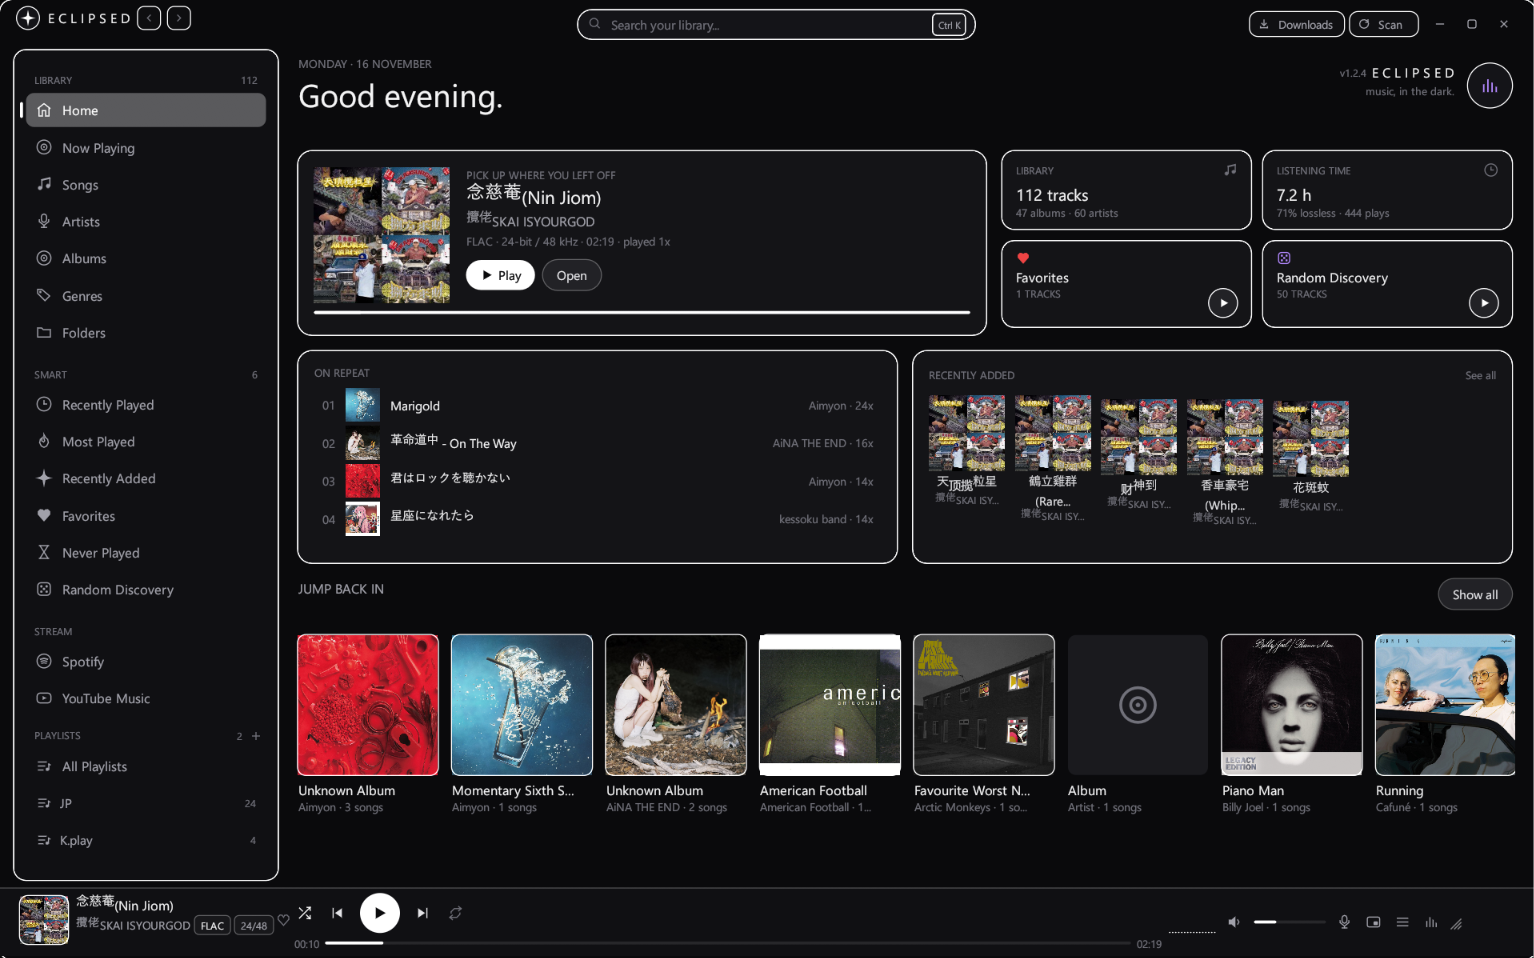
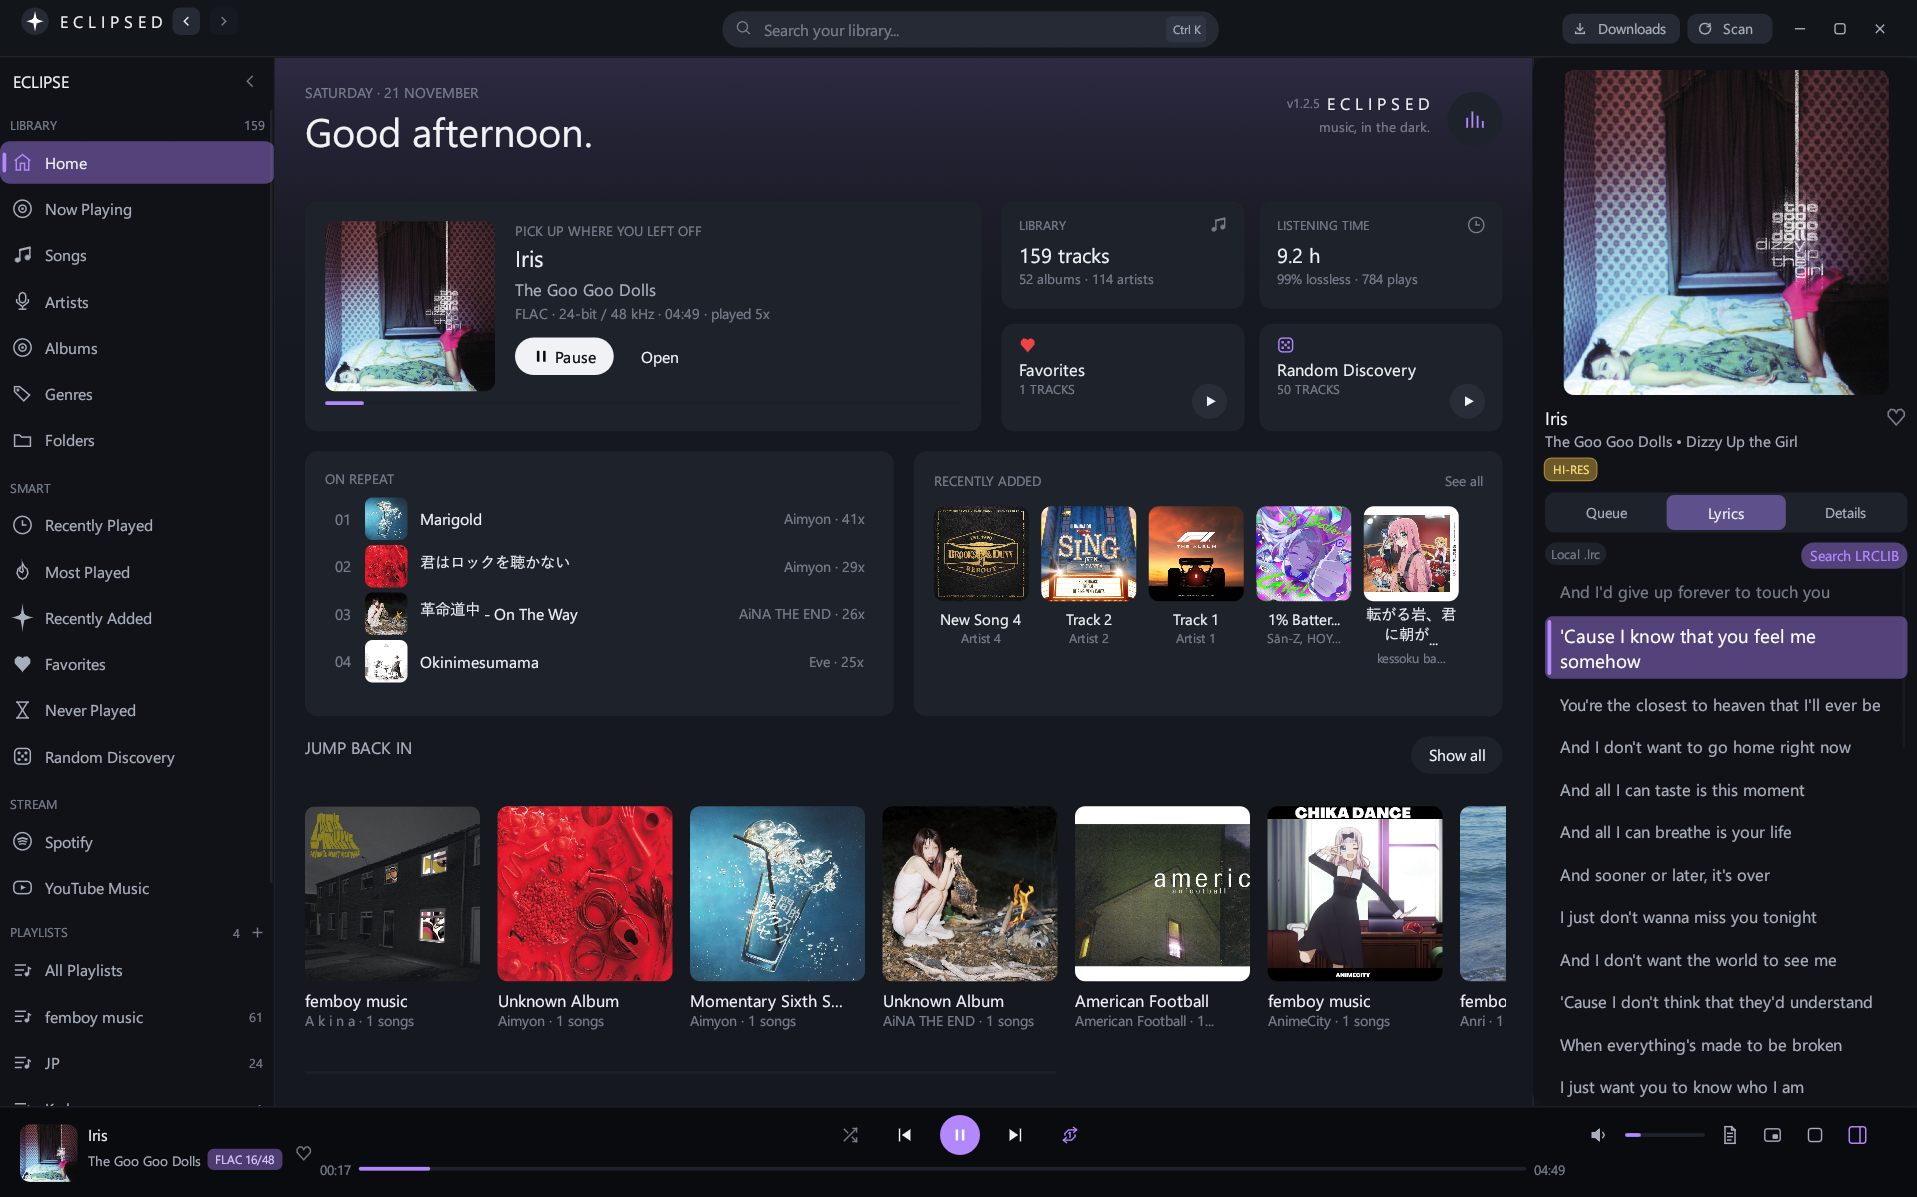
chore(release): bump version to 1.2.6 (The UI Rework) and update screenshots

diff --git a/README.md b/README.md
@@ -1,13 +1,13 @@
 # Eclipse — music, in the dark.
 
-[![Release](https://img.shields.io/badge/release-v1.2.5-7c3aed?style=flat-square)](https://github.com/Caly-sys/Eclipse/releases/tag/v1.2.5)
+[![Release](https://img.shields.io/badge/release-v1.2.6-7c3aed?style=flat-square)](https://github.com/Caly-sys/Eclipse/releases/tag/v1.2.6)
 [![Platform](https://img.shields.io/badge/platform-Windows%20x64-3b82f6?style=flat-square)](https://github.com/Caly-sys/Eclipse/releases)
 [![Rust](https://img.shields.io/badge/rust-1.80%2B-ea580c?style=flat-square)](https://www.rust-lang.org)
 [![License](https://img.shields.io/badge/license-MIT-10b981?style=flat-square)](LICENSE)
 
 A high-performance music player for Windows written in Rust with a calm, dark purple glass aesthetic.
 
-> **Project Status**: **v1.2.5 Active Release** — High-performance local-first audio player, YouTube Music streaming, Spotify public link importing, multi-format audio downloading, and cinematic fullscreen mode.
+> **Project Status**: **v1.2.6 Active Release — The UI Rework** — Feishin-style matte-slate 3-column bento layout, dynamic palette theming, real-time PCM analyzer, LRCLIB cloud lyrics modal, native Win32 mini-player rounding, and hardened streaming backend.
 
 ---
 
@@ -66,6 +66,32 @@ A high-performance music player for Windows written in Rust with a calm, dark pu
 
 ---
 
+## ✦ What's New in v1.2.6 — The UI Rework
+
+### 🍱 Feishin-Style Matte-Slate Bento 3-Column Architecture
+- **Layered Matte Charcoal Surfaces**: Completely overhauled visual architecture replacing wireframe borders with a refined matte surface hierarchy (`#12151A` bar surfaces, `#161A20` sidebars & inspector, `#1D2129` center viewport, and `#252A34` elevated cards).
+- **Subtle 1px Structural Pane Seams**: Replaced harsh high-contrast white strokes with quiet, dark 1px pane dividers (`Color32::from_rgb(36, 41, 50)`) for crisp architectural separation.
+- **Dynamic Bento Palette & Settings Theming**: Dynamic palette generator powered by active Settings Themes (`Ember`, `Verdant`, `Nebula`, `Glacier`, `Obsidian`, `Eclipse`) and Accent Colors.
+
+### 🌌 Edge-to-Edge Home Ambient Gradient
+- **Full-Bleed Center Glow**: Edge-to-edge 10-row multi-stop `egui::Mesh` blending from center slate into active theme accent color across the entire top header width with zero dark gutters.
+- **Ease-Out Color Mathematics**: Calibrated lerp curve maintains pure RGB color vibrancy without dark grey muddying.
+
+### 🎵 Restored Now Playing View & Enhanced Right Inspector
+- **Real-Time PCM Spectrum Analyzer**: Restored dedicated Now Playing view with logarithmic FFT frequency visualizer and stereo peak meters.
+- **LRCLIB Cloud Lyrics & Manual Search**: Interactive `Search Online (LRCLIB)` modal to query, preview, and apply synced lyrics on the fly.
+- **High-Contrast Active Lyric Lines**: Enhanced readability across dark matte surfaces with crisp translucent highlight pill and gold badges.
+
+### 🪟 Native Windows Pop-Out Mini-Player Rounding
+- **DWM Native Window Rounding**: Native Win32 `DwmSetWindowAttribute` / `CreateRoundRectRgn` rounded corners on the borderless mini-player viewport (`HWND`), eliminating dark rectangular corner artifacts on Windows 10/11.
+
+### 🛡 Backend Reliability & Race Condition Fixes
+- **Track Skipping Lyrics Race Elimination**: Generational request ID tracking on async LRCLIB requests ensures late-arriving lyrics from skipped tracks never overwrite the active track.
+- **Downloader Mutex Poisoning Recovery**: All download worker queues safely recover from poisoned mutex state instead of crashing the process on panic.
+- **Safe HTML Entity Decoding**: Hardened entity parsing for YouTube metadata strings.
+
+---
+
 ## ✦ What's New in v1.2.5
 
 ### 🎧 Multi-Format Audio Downloader
@@ -111,15 +137,15 @@ Eclipse is portable and self-contained. It requires no administrative installers
 
 ### Option 1: Standalone Portable Executable (Recommended)
 
-1. Download the latest release package (`eclipse.exe` or `eclipse-v1.2.5-windows-x64.zip`) from [GitHub Releases](https://github.com/Caly-sys/Eclipse/releases).
+1. Download the latest release package (`eclipse.exe` or `eclipse-v1.2.6-windows-x64.zip`) from [GitHub Releases](https://github.com/Caly-sys/Eclipse/releases).
 2. Move `eclipse.exe` into any preferred directory (such as `%LOCALAPPDATA%\Programs\Eclipse`).
 3. Double-click `eclipse.exe` to launch.
 
-#### Release SHA-256 Checksums (v1.2.5)
+#### Release SHA-256 Checksums (v1.2.6)
 | File | SHA-256 Checksum |
 |---|---|
[1 lines of base64/hex data omitted]
-| `eclipse-v1.2.5-windows-x64.zip` | *Published with GitHub release assets* |
[2 lines of base64/hex data omitted]
 
 > [!NOTE]
 > **Windows Defender SmartScreen Notice:**
